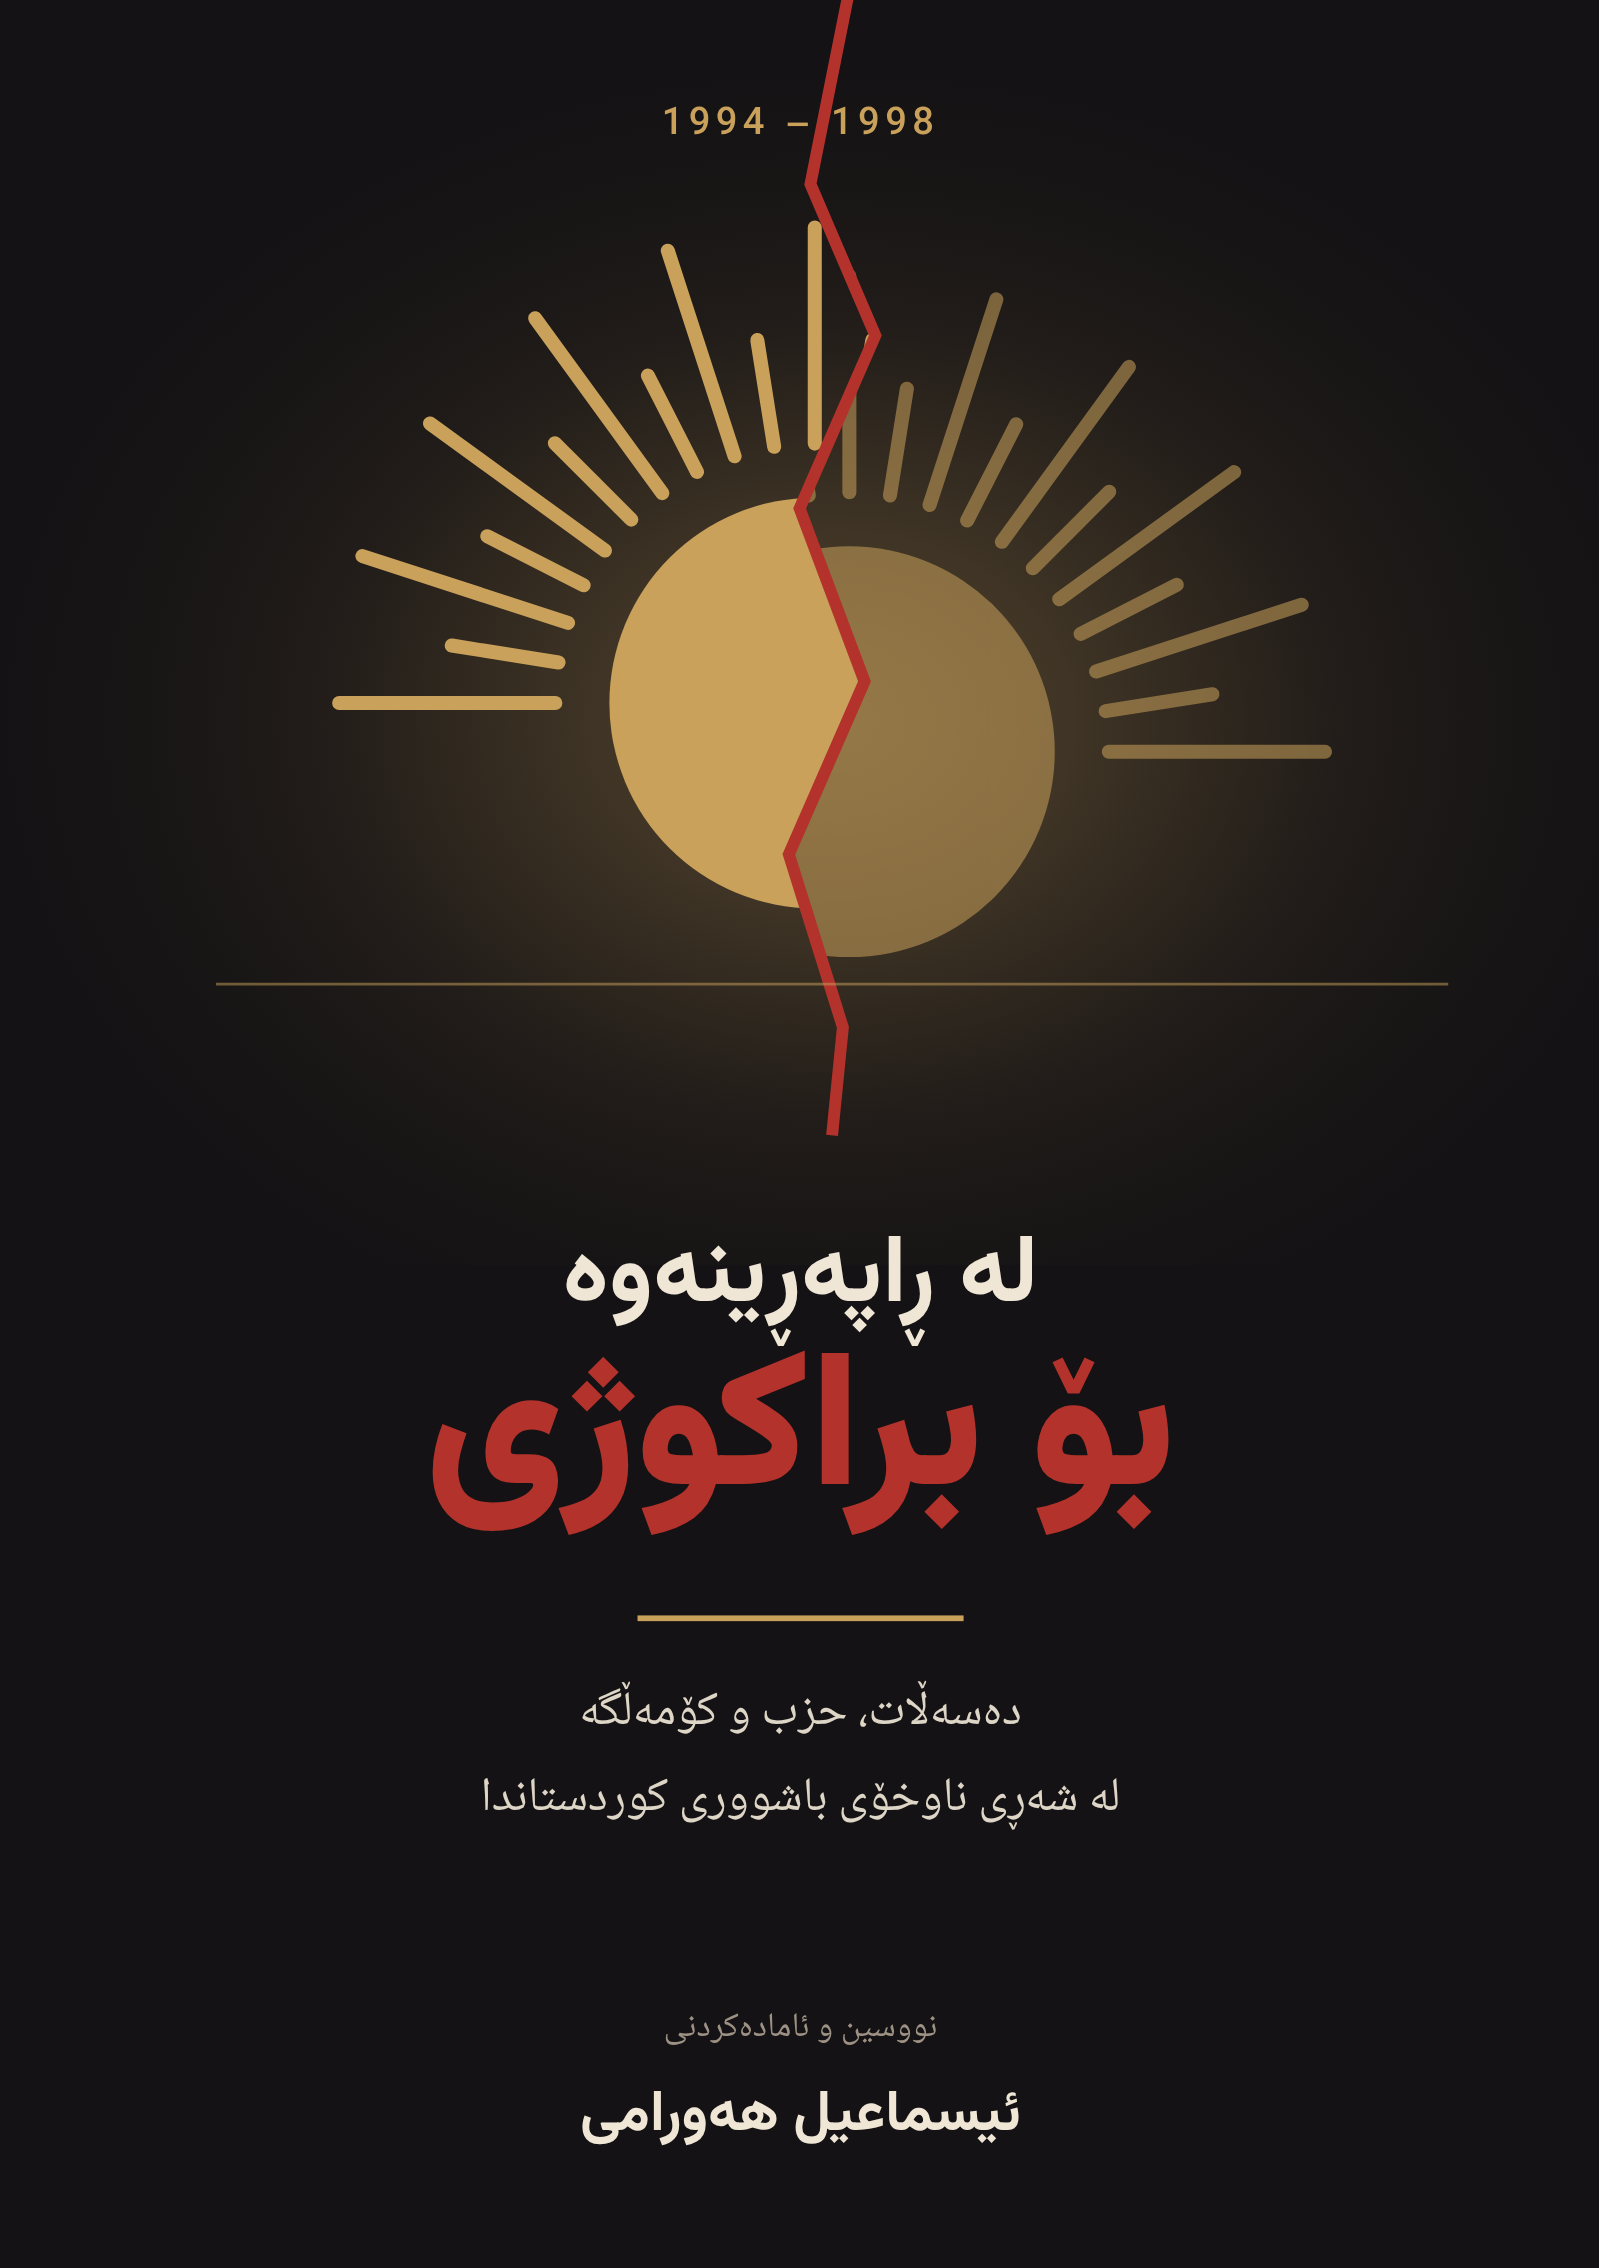
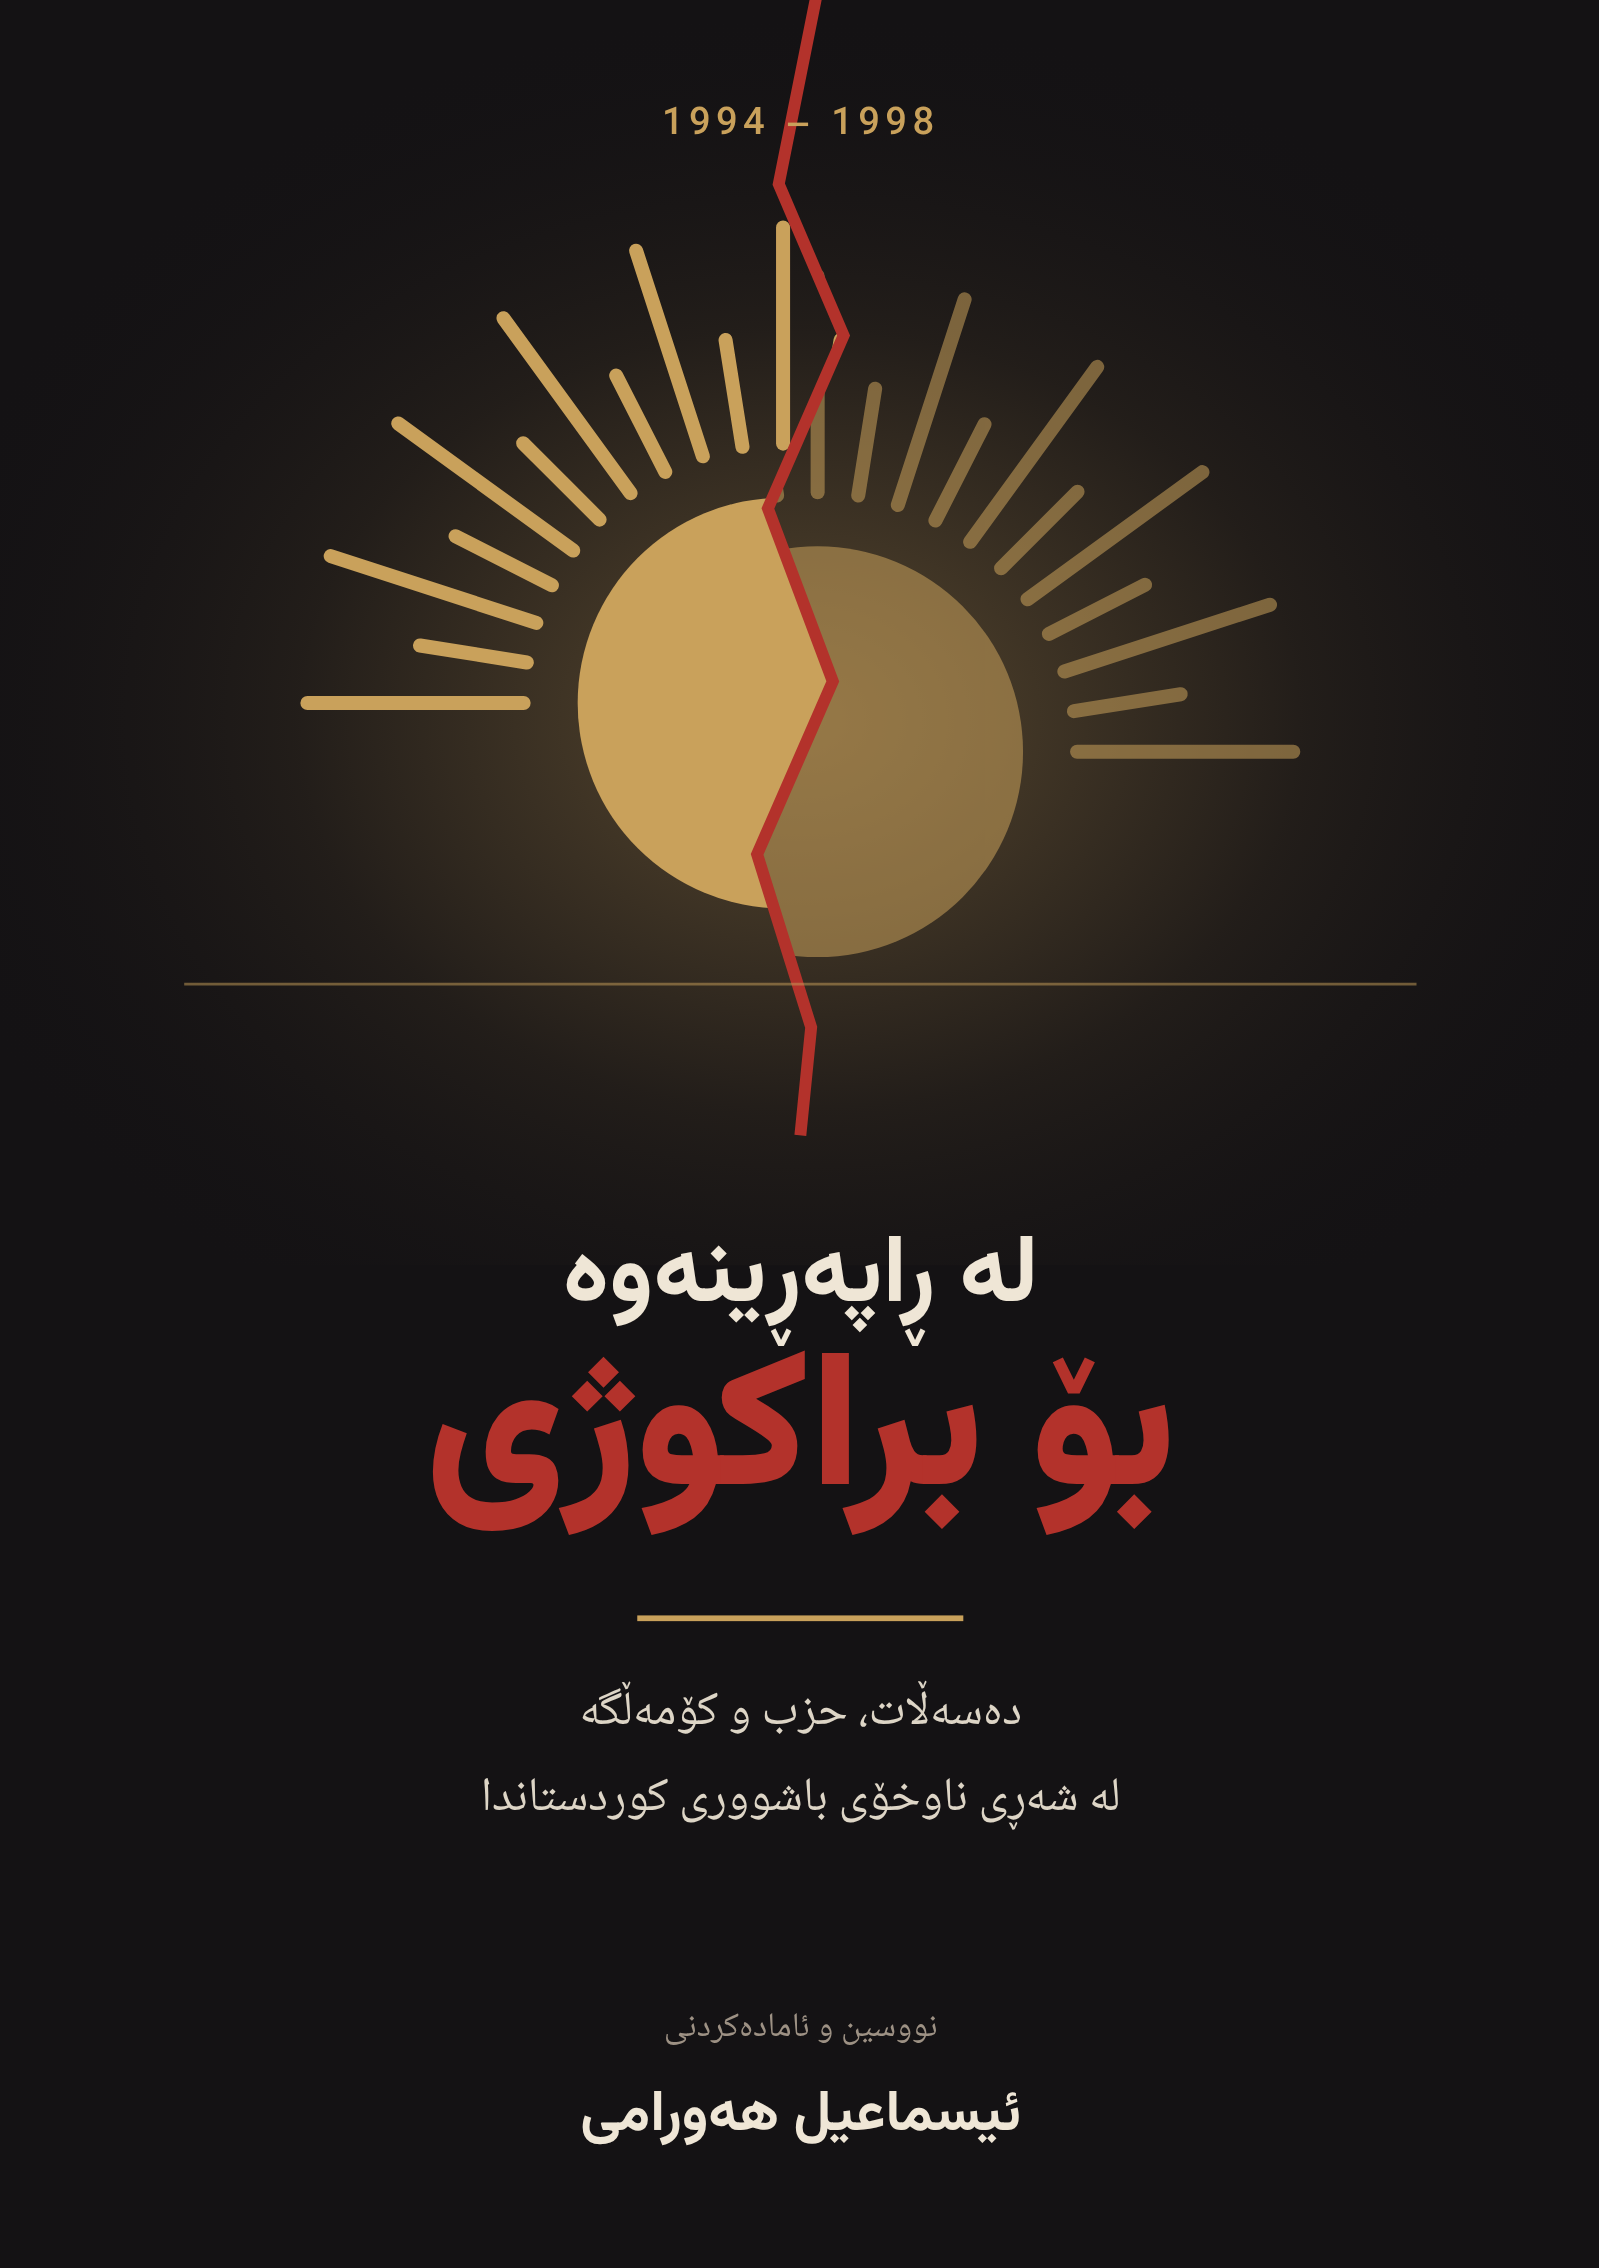
Put front cover on the left for the right-to-left book
Claude-Session: https://claude.ai/code/session_01G5cKFYPQy8Vg8NmL5pNWtL

Changed region(s): [[0.2145, 0.0, 0.8274, 0.4938], [0.7967, 0.3086, 0.8274, 0.3395]]

diff --git a/cover/cover.html b/cover/cover.html
@@ -5,7 +5,7 @@
 <title>بەرگی کتێب: لە ڕاپەڕینەوە بۆ براکوژی</title>
 <style>
 /* Wrap cover, A5 trim 148x210 mm, spine 16 mm (303 pp), bleed 3 mm.
-   RTL book: back on the LEFT, front on the RIGHT. */
+   RTL book: front on the LEFT, back on the RIGHT. */
 @page { size: 318mm 216mm; margin: 0; }
 :root{
   --ink:#141214; --ink2:#1d1a1c; --paper:#efe6d6; --ochre:#c9a15b; --red:#b3322b; --mute:#9d9184;
@@ -16,16 +16,16 @@ html,body{width:318mm;height:216mm;background:var(--ink)}
 body{position:relative;overflow:hidden;font-family:"Noto Naskh Arabic",serif;color:var(--paper);
   -webkit-print-color-adjust:exact;print-color-adjust:exact}
 .panel{position:absolute;top:0;height:var(--H)}
-.back {left:0;width:calc(var(--bleed) + var(--trimW))}
+.front{left:0;width:calc(var(--bleed) + var(--trimW))}
 .spine{left:calc(var(--bleed) + var(--trimW));width:var(--spine);background:var(--ink2)}
-.front{left:calc(var(--bleed) + var(--trimW) + var(--spine));width:calc(var(--trimW) + var(--bleed))}
+.back {left:calc(var(--bleed) + var(--trimW) + var(--spine));width:calc(var(--trimW) + var(--bleed))}
 
 /* subtle grain */
 .grain{position:absolute;inset:0;opacity:.18;mix-blend-mode:screen;pointer-events:none}
 
 /* ---------- FRONT ---------- */
 .front .art{position:absolute;left:0;top:0;width:154mm;height:120mm}
-.front .safe{position:absolute;top:calc(var(--bleed) + 9mm);left:10mm;right:calc(var(--bleed) + 10mm);bottom:calc(var(--bleed) + 10mm)}
+.front .safe{position:absolute;top:calc(var(--bleed) + 9mm);left:calc(var(--bleed) + 10mm);right:10mm;bottom:calc(var(--bleed) + 10mm)}
 .years{position:absolute;top:0;left:0;right:0;text-align:center;font-family:"Vazirmatn";font-weight:500;
   font-size:10pt;letter-spacing:.5mm;color:var(--ochre);direction:ltr}
 .titleblock{position:absolute;top:104mm;left:0;right:0;text-align:center}
@@ -46,7 +46,7 @@ body{position:relative;overflow:hidden;font-family:"Noto Naskh Arabic",serif;col
 .spine .mark{width:5mm;height:5mm;border:.4mm solid var(--ochre);transform:rotate(45deg);writing-mode:horizontal-tb}
 
 /* ---------- BACK ---------- */
-.back .safe{position:absolute;top:calc(var(--bleed) + 16mm);left:calc(var(--bleed) + 14mm);right:14mm;bottom:calc(var(--bleed) + 12mm)}
+.back .safe{position:absolute;top:calc(var(--bleed) + 16mm);left:14mm;right:calc(var(--bleed) + 14mm);bottom:calc(var(--bleed) + 12mm)}
 .q{font-family:"Vazirmatn";font-weight:700;font-size:13.5pt;line-height:1.7;color:var(--ochre);margin-bottom:7mm}
 .blurb{font-size:10.5pt;line-height:1.95;text-align:justify;color:var(--paper)}
 .blurb p+p{margin-top:3mm}
